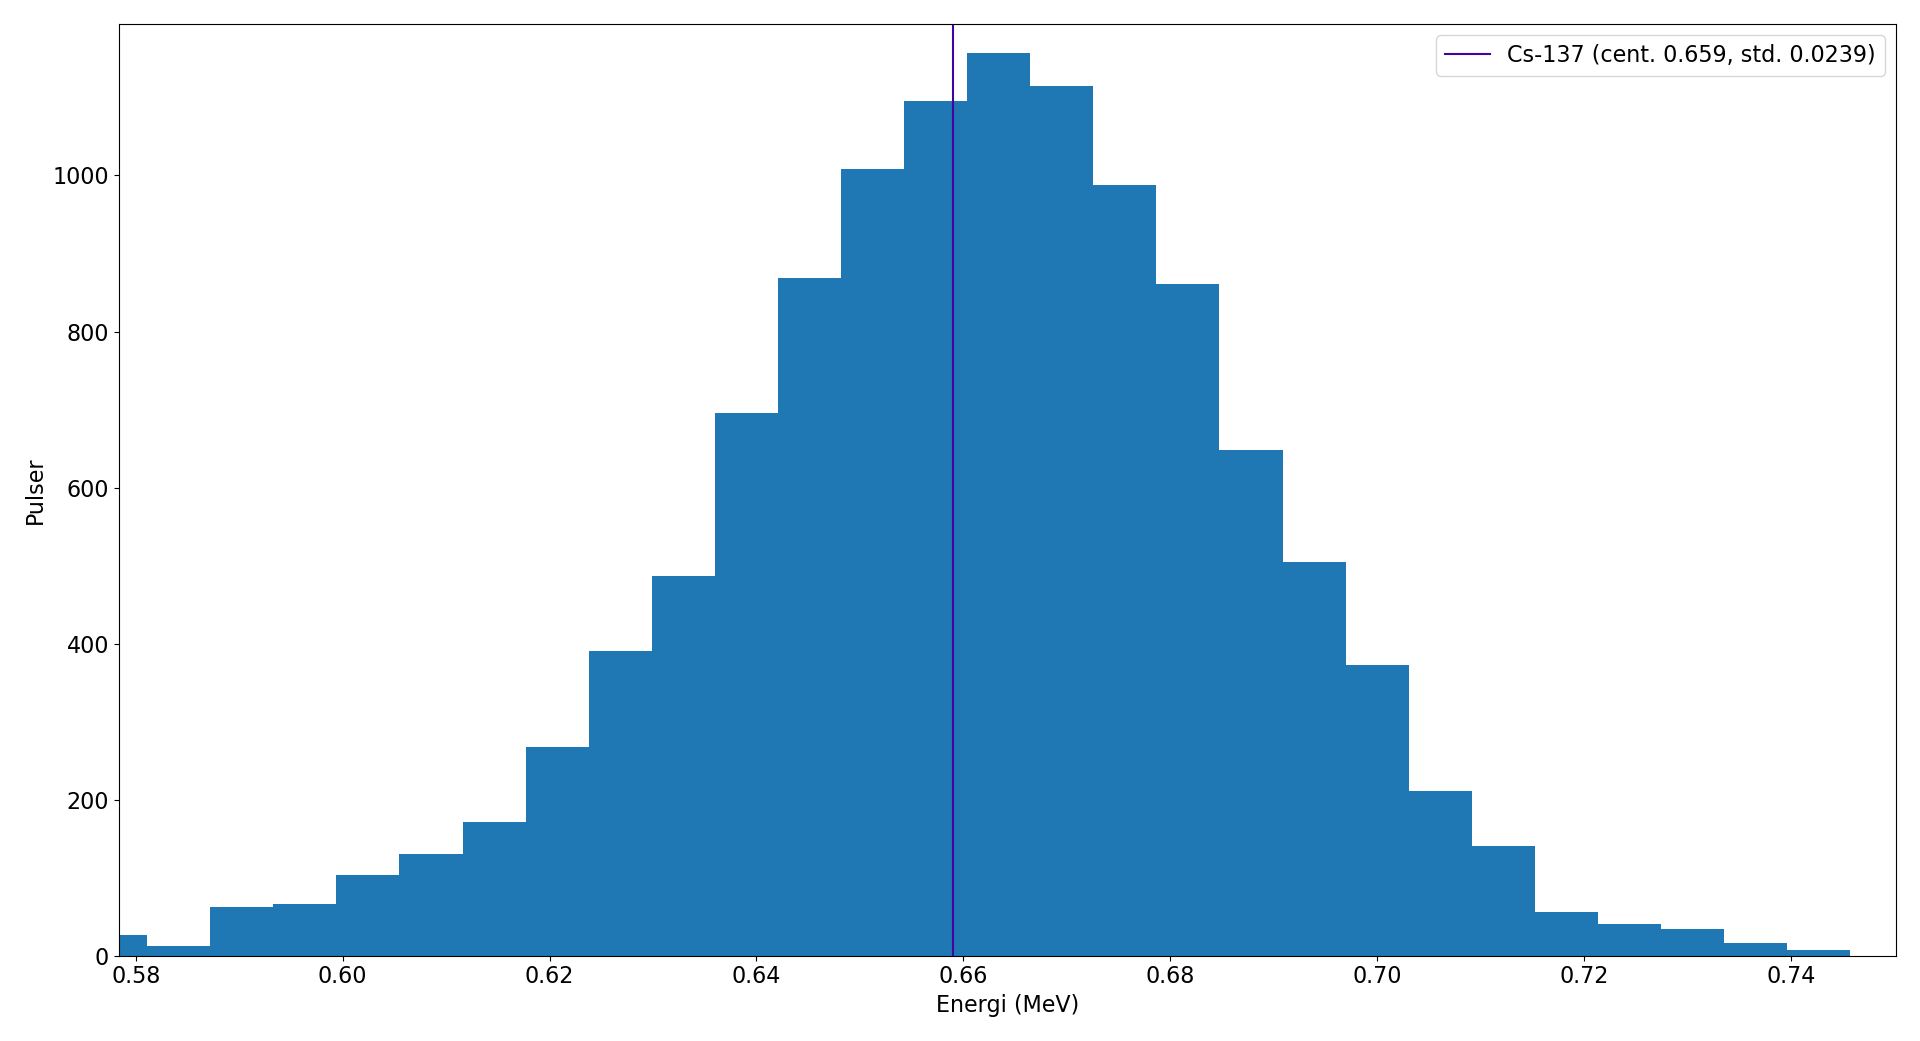
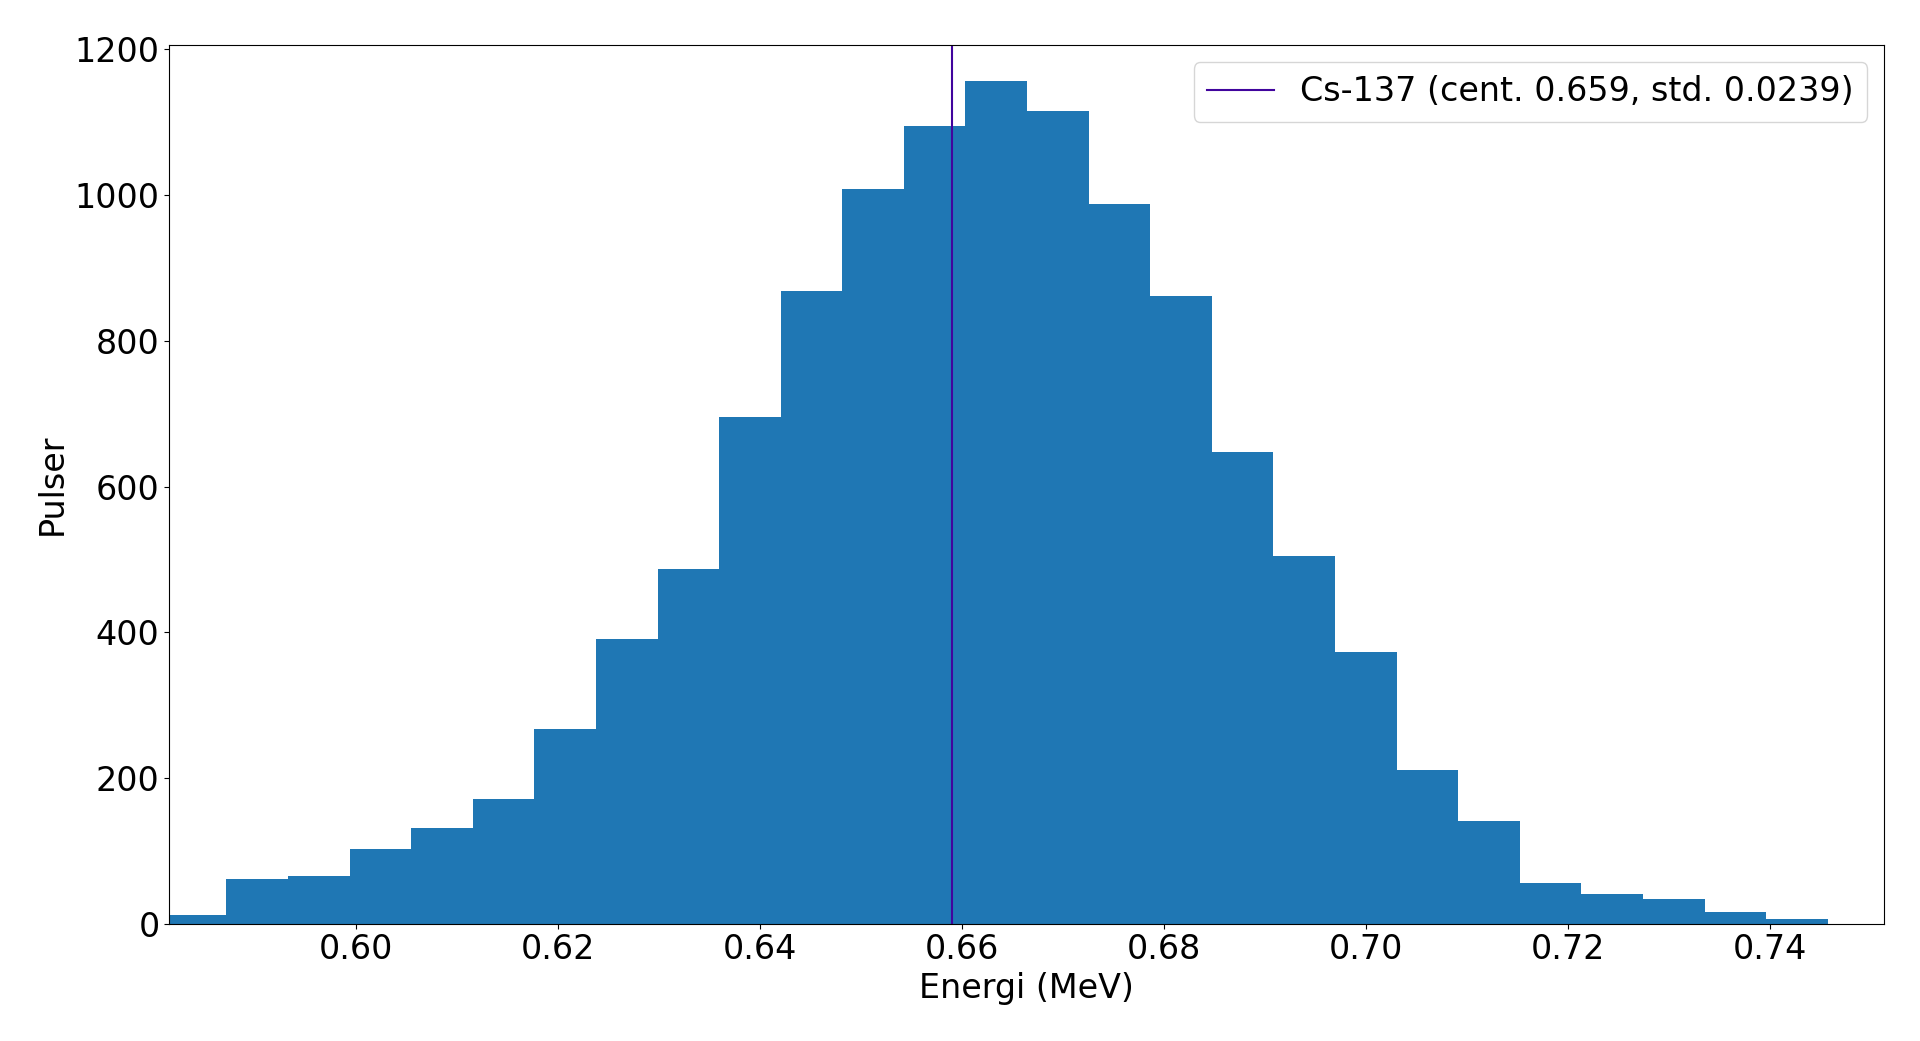
added sec 4.1

diff --git a/tex/measurements.tex b/tex/measurements.tex
@@ -1,0 +1,166 @@
+\subsection{Mätningar}
+
+Tre prover har undersökts. Provernas natur visas i tabell~\ref{tab:samples}.
+Angiven ``strålning'' syftar på den typ av strålning som undersökts för provet.
+
+Svampen, som är plockad nära Kiev år 2002, förväntas innehålla någon andel
+Cs-137 från Tjernobylolyckan \parencite{instructions}. Som visas i
+avsnitt~\ref{sec:theory} innehåller denna sönderfallskedja både
+$\gamma$-sönderfall och $\beta^-$-sönderfall, varför även en stav Cs-137
+har undersökts i en $\beta$-strålningsdetektor. Mineralsaltet Seltin innehåller
+naturligt Kalium och har därmed, som visat i bilaga~\ref{sec:seltin}, viss
+aktivitet från andelen K-40. 
+
+\begin{table}[htp]
+    \begin{tabular}{|l|l|l|l|l|l|}
+    \hline
+    Provets typ        & Massa (\unit{g}) & Strålning & Pulser      & Mättid (\unit{s}) & Frekvens (\unit{\Hz}) \\
+    \hline
+    Svamp, Kiev, 2002  & \num{18.0}       & $\gamma$  & \num{10977} & \num{804}         & \num{13.7}            \\
+    \hline
+    Seltin mineralsalt & \num{70.0}       & $\gamma$  & \num{314}   & \num{300}         & \num{1.05}            \\
+    \hline
+    Stav Cs-137        & -                & $\beta$   & \num{1605}  & \num{600}         & \num{3.40}            \\
+    \hline
+    \end{tabular}
+    \caption{Information om proverna.}
+    \label{tab:samples}
+\end{table}
+
+\subsubsection{Betastrålning i svamp}
+
+Figur~\ref{fig:mushrooms} visar mätresultaten från svampprovet. Pulserna är
+mestadels i intervallet \qtyrange{0}{0.8}{\MeV}. Figur~\ref{fig:mushroomszoom}
+visar en förstoring av detta område. En topp syns nära \qty{0.6}{\MeV}.
+Figur~\ref{fig:mushroomstop} visar en förstoring av denna topp.
+
+\begin{figure}[htp]
+    \centering
+    \includegraphics[width=\textwidth, keepaspectratio]{../images/mushrooms.png}
+    \caption{Gammaspektrum, svamp från Kiev 2002.}
+    \label{fig:mushrooms}
+\end{figure}
+
+\begin{figure}[htp]
+    \centering
+    \includegraphics[width=\textwidth, keepaspectratio]{../images/mushrooms_zoom.png}
+    \caption{
+        Förstoring av största koncentration från figur~\ref{fig:mushrooms}.
+        Intervallet visat är \qtyrange{0}{0.8}{\MeV}.
+    }
+    \label{fig:mushroomszoom}
+\end{figure}
+
+\begin{figure}[htp]
+    \centering
+    \includegraphics[width=\textwidth, keepaspectratio]{../images/mushrooms_top.png}
+    \caption{
+        Förstoring av topp från figur~\ref{fig:mushrooms}.
+        Intervallet visat är \qtyrange{0.58}{0.75}{\MeV}.
+    }
+    \label{fig:mushroomstop}
+\end{figure}
+
+Toppens form tyder på en typisk normalfördelning med centroid vid
+\qty{0.659}{\MeV}, standardavvikelse på \qty{0.0239}{\MeV} och FHWM på
+\qty{0.0544}{\MeV}. Dessa värden föreslår med god precision att provet mycket
+riktigt innehåller Cs-137 vars sönderfall ger upphov till fotoner med
+energinivåer på \qty{0.661657}{\MeV} (se avsnitt~\ref{sec:theory}).
+
+De större pulserna med lägre energi än toppen (se
+figur~\ref{fig:mushroomszoom}) förklaras genom Comptonspridning, för vilken
+vi noterar en bakåtspridningstopp vid \qty{0.8}{\MeV} och en Comptonkant kring
+\qty{0.48}{\MeV}. Övriga pulser förklaras genom slumpartad bakgrundsstrålning
+och är försumbara.
+
+\subsubsection{Betastrålning i salt}
+
+Figur~\ref{fig:salt} visar mätresultaten från saltprovet. Pulserna är
+mestadels i intervallet \qtyrange{0.1}{1.6}{\MeV}. Figur~\ref{fig:saltzoom}
+visar en förstoring av detta område. En topp syns nära \qty{1.45}{\MeV}.
+Figur~\ref{fig:salttop} visar en förstoring av denna topp.
+
+\begin{figure}[htp]
+    \centering
+    \includegraphics[width=\textwidth, keepaspectratio]{../images/salt.png}
+    \caption{Gammaspektrum, mineralsaltet Seltin.}
+    \label{fig:salt}
+\end{figure}
+
+\begin{figure}[htp]
+    \centering
+    \includegraphics[width=\textwidth, keepaspectratio]{../images/salt_zoom.png}
+    \caption{
+        Förstoring av största koncentration från figur~\ref{fig:salt}.
+        Intervallet visat är \qtyrange{0.1}{1.6}{\MeV}.
+    }
+    \label{fig:saltzoom}
+\end{figure}
+
+\begin{figure}[htp]
+    \centering
+    \includegraphics[width=\textwidth, keepaspectratio]{../images/salt_top.png}
+    \caption{
+        Förstoring av topp från figur~\ref{fig:salt}.
+        Intervallet visat är \qtyrange{1.38}{1.54}{\MeV}.
+    }
+    \label{fig:salttop}
+\end{figure}
+
+Toppens form tyder även här på en typisk normalfördelning med centroid vid
+\qty{1.455}{\MeV}, standardavvikelse på \qty{0.0294}{\MeV} och FHWM på
+\qty{0.0640}{\MeV}. Värdena föreslår att provet mycket riktigt innehåller K-40
+vars sönderfall ger upphov till fotoner med energinivåer på
+\qty{1.460822}{\MeV} (se avsnitt~\ref{sec:theory}).
+
+Likt svampens spektrum visas antydan till Comptoneffekten med
+bakåtspridningstopp nära \qty{0.25}{\MeV} och Comptonkant kring
+\qty{1.2}{\MeV}. Bakgrundsstrålning antas ha försumbar påverkan.
+
+Till skillnad från svampens spektrum har detta betydligt mer brus. Detta beror
+främst på att färre pulser detekterades. Tabell~\ref{tab:samples} visar att
+svampprovet gav av pulser med cirka \num{13} gånger högre frekvens, för ett
+slutresultat på cirka \num{35} gånger fler pulser. För vidare analys se
+avsnitt~\ref{sec:analysis}
+
+\subsubsection{Betastrålning i stav}
+
+Figur~\ref{fig:cesium} visar mätresultaten från cesiumprovet. Pulserna är
+mestadels i intervallet \qtyrange{0.1}{0.7}{\MeV}. Figur~\ref{fig:cesiumzoom}
+visar en förstoring av detta område. Två toppar syns nära
+\qtylist{0.62;0.65}{\MeV}. Figur~\ref{fig:cesiumtop} visar en förstoring av
+dessa toppar.
+
+\begin{figure}[htp]
+    \centering
+    \includegraphics[width=\textwidth, keepaspectratio]{../images/cesium.png}
+    \caption{Betaspektrum, Cs-137.}
+    \label{fig:cesium}
+\end{figure}
+
+\begin{figure}[htp]
+    \centering
+    \includegraphics[width=\textwidth, keepaspectratio]{../images/cesium_zoom.png}
+    \caption{
+        Förstoring av största koncentration från figur~\ref{fig:cesium}.
+        Intervallet visat är \qtyrange{0.1}{0.7}{\MeV}.
+    }
+    \label{fig:cesiumzoom}
+\end{figure}
+
+\begin{figure}[htp]
+    \centering
+    \includegraphics[width=\textwidth, keepaspectratio]{../images/cesium_top.png}
+    \caption{
+        Förstoring av toppar från figur~\ref{fig:cesium}.
+        Intervallet visat är \qtyrange{0.605}{0.675}{\MeV}.
+    }
+    \label{fig:cesiumtop}
+\end{figure}
+
+Topparnas former tyder återigen på normalfördelningar med centroioder vid
+\qtylist{0.624;0.657}{\MeV}, standardavvikelser på
+\qtylist{0.00735;0.00535}{\MeV} och FHWM på \qtylist{0.0172;0.0138}{\MeV}.
+Dessa motsvarar med mycket god precision energierna för elektronerna som avges
+som följd av inre konversion från K- respektive L-skalen i Kalium (se
+avsnitt~\ref{sec:theory}).

diff --git a/tex/seltin.tex b/tex/seltin.tex
@@ -3,16 +3,16 @@
 Hälsosaltet Seltin består till massan \qty{21}{\percent} av naturligt Kalium.
 Aktiviteten i \qty{66.0}{\g} Seltin som följd av K-40-innehållet ska beräknas.
 
-\subsection{Indata}
+\subsection*{Indata}
 
-\subsubsection{Givet}
+\subsubsection*{Givet}
 
 \begin{align*}
     & \text{Massa Seltin}          & m_S = \qty{0.066}{\kg} \\
     & \text{Andel Kalium i Seltin} & r_S = \qty{21}{\percent}
 \end{align*}
 
-\subsubsection{Konstanter}
+\subsubsection*{Konstanter}
 
 \begin{align*}
     & \text{Andel K-40 i naturligt Kalium} & r_K     = \qty{0.0117}{\percent}     &\quad \text{(\cite{fysika}, Tk4)} \\
@@ -20,14 +20,14 @@ Aktiviteten i \qty{66.0}{\g} Seltin som följd av K-40-innehållet ska beräknas
     & \text{Halveringstid K-40}            & T_{1/2} = \qty{1.248}{\giga\scyear} &\quad \text{(\cite{fysika}, Tk4)}
 \end{align*}
 
-\subsection{Enhetsomvandlingar}
+\subsection*{Enhetsomvandlingar}
 
 \begin{align*}
     & \qty{1}{\scyear} &= \qty{31557600}{\s}         &\quad \text{(\cite{fysika}, Te)} \\
     & \qty{1}{\atomicmassunit} &= \qty{1.66053907e-27}{\kg} &\quad \text{(\cite{fysika}, Te)}
 \end{align*}
 
-\subsection{Formler}
+\subsection*{Formler}
 
 \begin{align}
     M       &= \frac{m}{N}           &\quad \text{(\cite{fysika}, Fa2)}  \label{eq:molmass} \\
@@ -35,7 +35,7 @@ Aktiviteten i \qty{66.0}{\g} Seltin som följd av K-40-innehållet ska beräknas
     T_{1/2} &= \frac{\ln 2}{\lambda} &\quad \text{(\cite{fysika}, Fd2b)} \label{eq:halflife}
 \end{align}
 
-\subsection{Lösning}
+\subsection*{Lösning}
 
 Mängden kalium $m_K$ är andelen kalium i Seltin gånger massan Seltin;
 

diff --git a/tex/energy.tex b/tex/energy.tex
@@ -8,7 +8,7 @@ beräknas. Reaktionerna sker som följande:
     \ce{^137_55Cs} &\xrightarrow{\qty{94.4}{\percent}} \ce{^137_56Ba^*} + e^- + \bar{\nu}_e \label{csdecay2}
 \end{align}
 
-\subsection{Konstanter}
+\subsection*{Konstanter}
 
 \begin{align*}
     & \text{Ljusets hastighet}        & c        = \qty{299792458}{\m\per\s}         &\quad \text{(\cite{fysika}, Te)}   \\
@@ -17,13 +17,13 @@ beräknas. Reaktionerna sker som följande:
     & \text{Excitationsenergi Ba-137} & E_\gamma = \qty{0.661657}{\MeV}              &\quad \text{\parencite{instructions}}
 \end{align*}
 
-\subsection{Enhetsomvandlingar}
+\subsection*{Enhetsomvandlingar}
 
 \begin{align*}
     & \qty{1}{\atomicmassunit} = \qty{931.494103}{\MeV\per\clight\squared} \quad \text{(\cite{fysika}, Te)}
 \end{align*}
 
-\subsection{Formler}
+\subsection*{Formler}
 
 \begin{align}
     Q &= (M_A - M_B)c^2 &\quad \text{(\cite{fysika}, Fd2a)} \label{freed}
@@ -31,7 +31,7 @@ beräknas. Reaktionerna sker som följande:
 
 \eqref{freed} gäller för reaktioner på formen $A \longrightarrow B$.
 
-\subsection{Lösning}
+\subsection*{Lösning}
 
 I \eqref{csdecay1} sker endast ett $\beta^-$-sönderfall (inre konversion). Den
 frigjorda energin omvandlas till kinetisk energi som fördelas mellan de

diff --git a/tex/speed.tex b/tex/speed.tex
@@ -3,7 +3,7 @@
 Elektronernas maxhastighet för $\beta^-$-sönderfall av Cs-137 ska beräknas
 uttryckt i ljushastigheten.
 
-\subsection{Konstanter}
+\subsection*{Konstanter}
 
 \begin{align*}
     & \text{Ljusets hastighet}     & c   = \qty{299792458}{\m\per\s}                  &\quad \text{(\cite{fysika}, Te)}   \\
@@ -11,14 +11,14 @@ uttryckt i ljushastigheten.
     & \text{Maximal rörelseenergi} & K   = \qty{1.17554556}{\MeV}                     &\quad \text{(Bilaga~\ref{sec:energy})}
 \end{align*}
 
-\subsection{Formler}
+\subsection*{Formler}
 
 \begin{align}
     \gamma &= \frac{1}{\sqrt{1 - v^2/c^2}} &\quad \text{(\cite{fysika}, Fd1)} \label{eq:lorentz} \\
          K &= mc^2(\gamma - 1)             &\quad \text{(\cite{fysika}, Fd1)} \label{eq:kinetic}
 \end{align}
 
-\subsection{Lösning}
+\subsection*{Lösning}
 
 Av \eqref{eq:kinetic} fås Lorentzfaktorn $\gamma$:
 

diff --git a/tex/main.tex b/tex/main.tex
@@ -7,12 +7,15 @@
 \usepackage{csquotes}
 \usepackage{graphicx}
 \usepackage[titletoc, page]{appendix}
+\usepackage{subcaption}
 \usepackage[swedish]{babel}
 
 \addbibresource{references.bib}
 \sisetup{
     output-decimal-marker = {,},
-    exponent-product = {\cdot}
+    exponent-product = \cdot,
+    range-phrase = --,
+    list-pair-separator = \text{ och }
 }
 \DeclareSIUnit\clight{\text{c}}
 \DeclareSIUnit\atomicmassunit{u}
@@ -53,7 +56,7 @@
 
 \newpage
 \renewcommand{\appendixpagename}{Bilagor}
-\addtocontents{toc}{\protect\setcounter{tocdepth}{1}}
+% \addtocontents{toc}{\protect\setcounter{tocdepth}{1}}
 \begin{appendices}
 
 \include{seltin}

diff --git a/scripts/spectrum.py b/scripts/spectrum.py
@@ -9,7 +9,7 @@ import numpy as np
 from matplotlib.typing import ColorType
 from numpy.typing import ArrayLike
 
-mpl.rc("font", **{"size": 16})
+mpl.rc("font", **{"size": 24})
 
 
 def parse(path: str, trim: bool = True) -> Sequence[tuple[int, int]]:

diff --git a/tex/results.tex b/tex/results.tex
@@ -1,5 +1,4 @@
 \section{Resultat}
 
-\subsection{Betastrålning från Cs-137}
-
-
+\input{measurements}
+\input{analysis}

diff --git a/tex/theory.tex b/tex/theory.tex
@@ -1,1 +1,1 @@
-\section{Teori}
+\section{Teori} \label{sec:theory}

diff --git a/tex/analysis.tex b/tex/analysis.tex
@@ -1,0 +1,1 @@
+\subsection{Analys} \label{sec:analysis}
